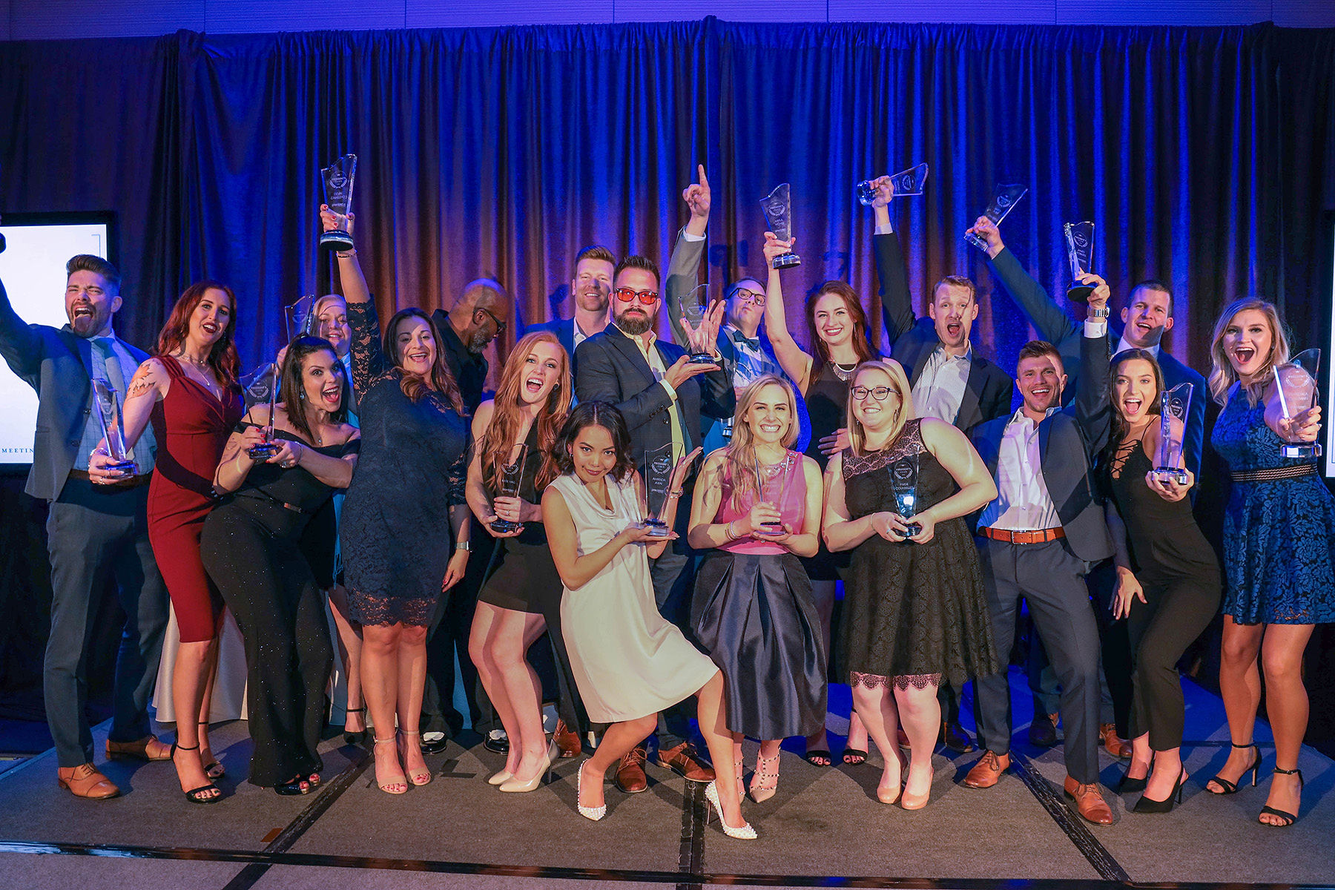
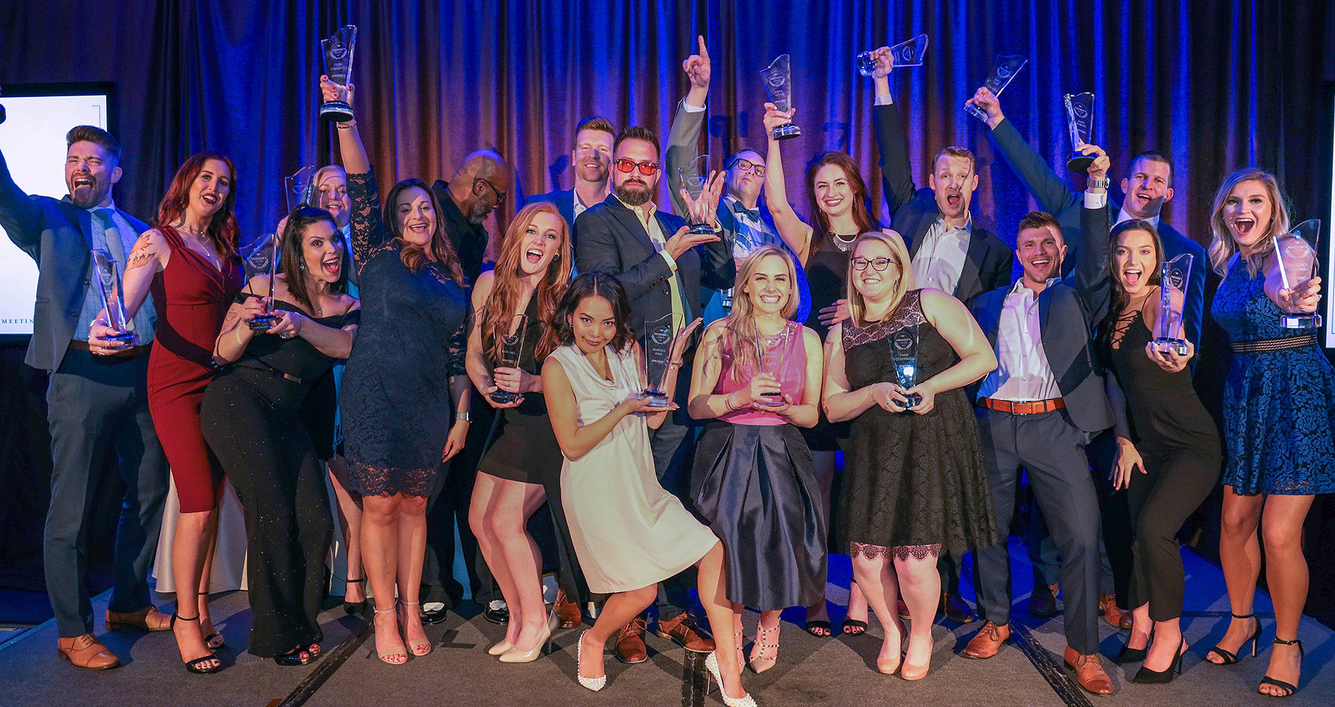
g

diff --git a/pages/careers.html b/pages/careers.html
@@ -208,7 +208,7 @@
             </div>
 
             <div class="image-grid-container">
-            <img class="large-image" src="../assets/images/culture/NSM-2018-71.jpg" alt="culture volunteering sales reps">
+            <img class="large-image" src="../assets/images/culture/precision-diagnostics-awards-sales.jpg" alt="culture volunteering sales reps">
 
                 <div class="culture-small-container">
                   <img class="small-image" src="../assets/images/culture/holiday-party-people-culture.jpg" alt="culture volunteering sales reps">
